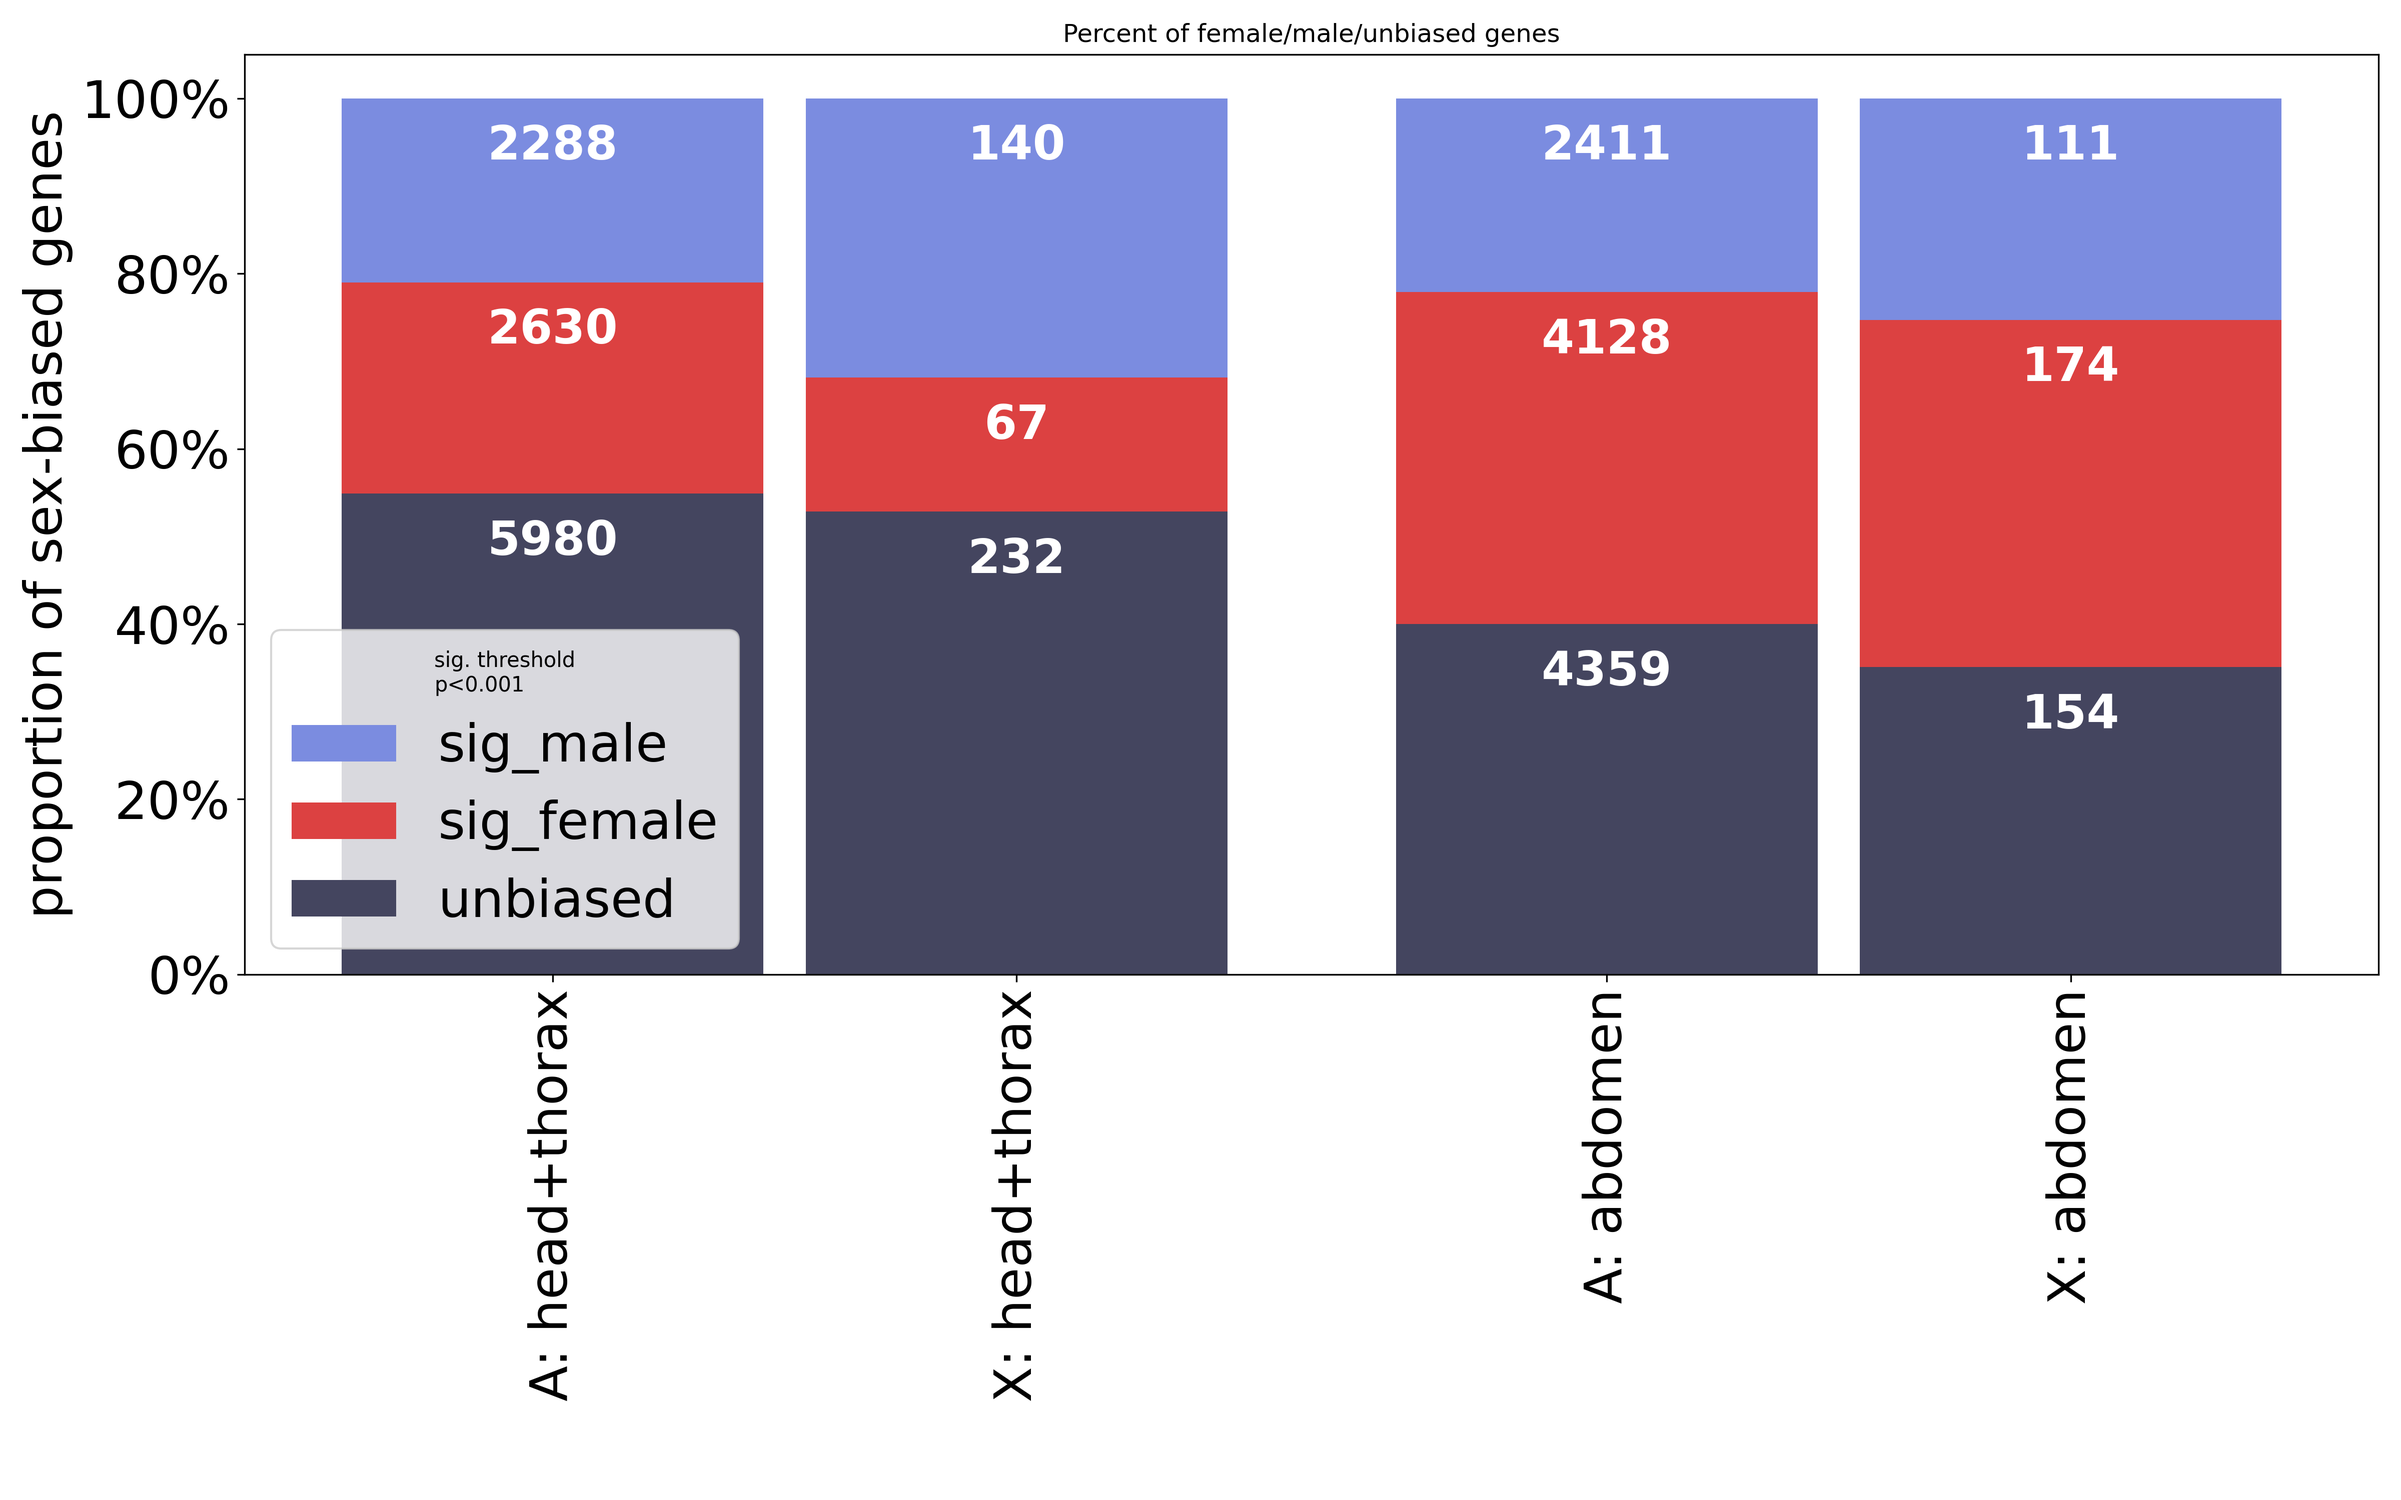
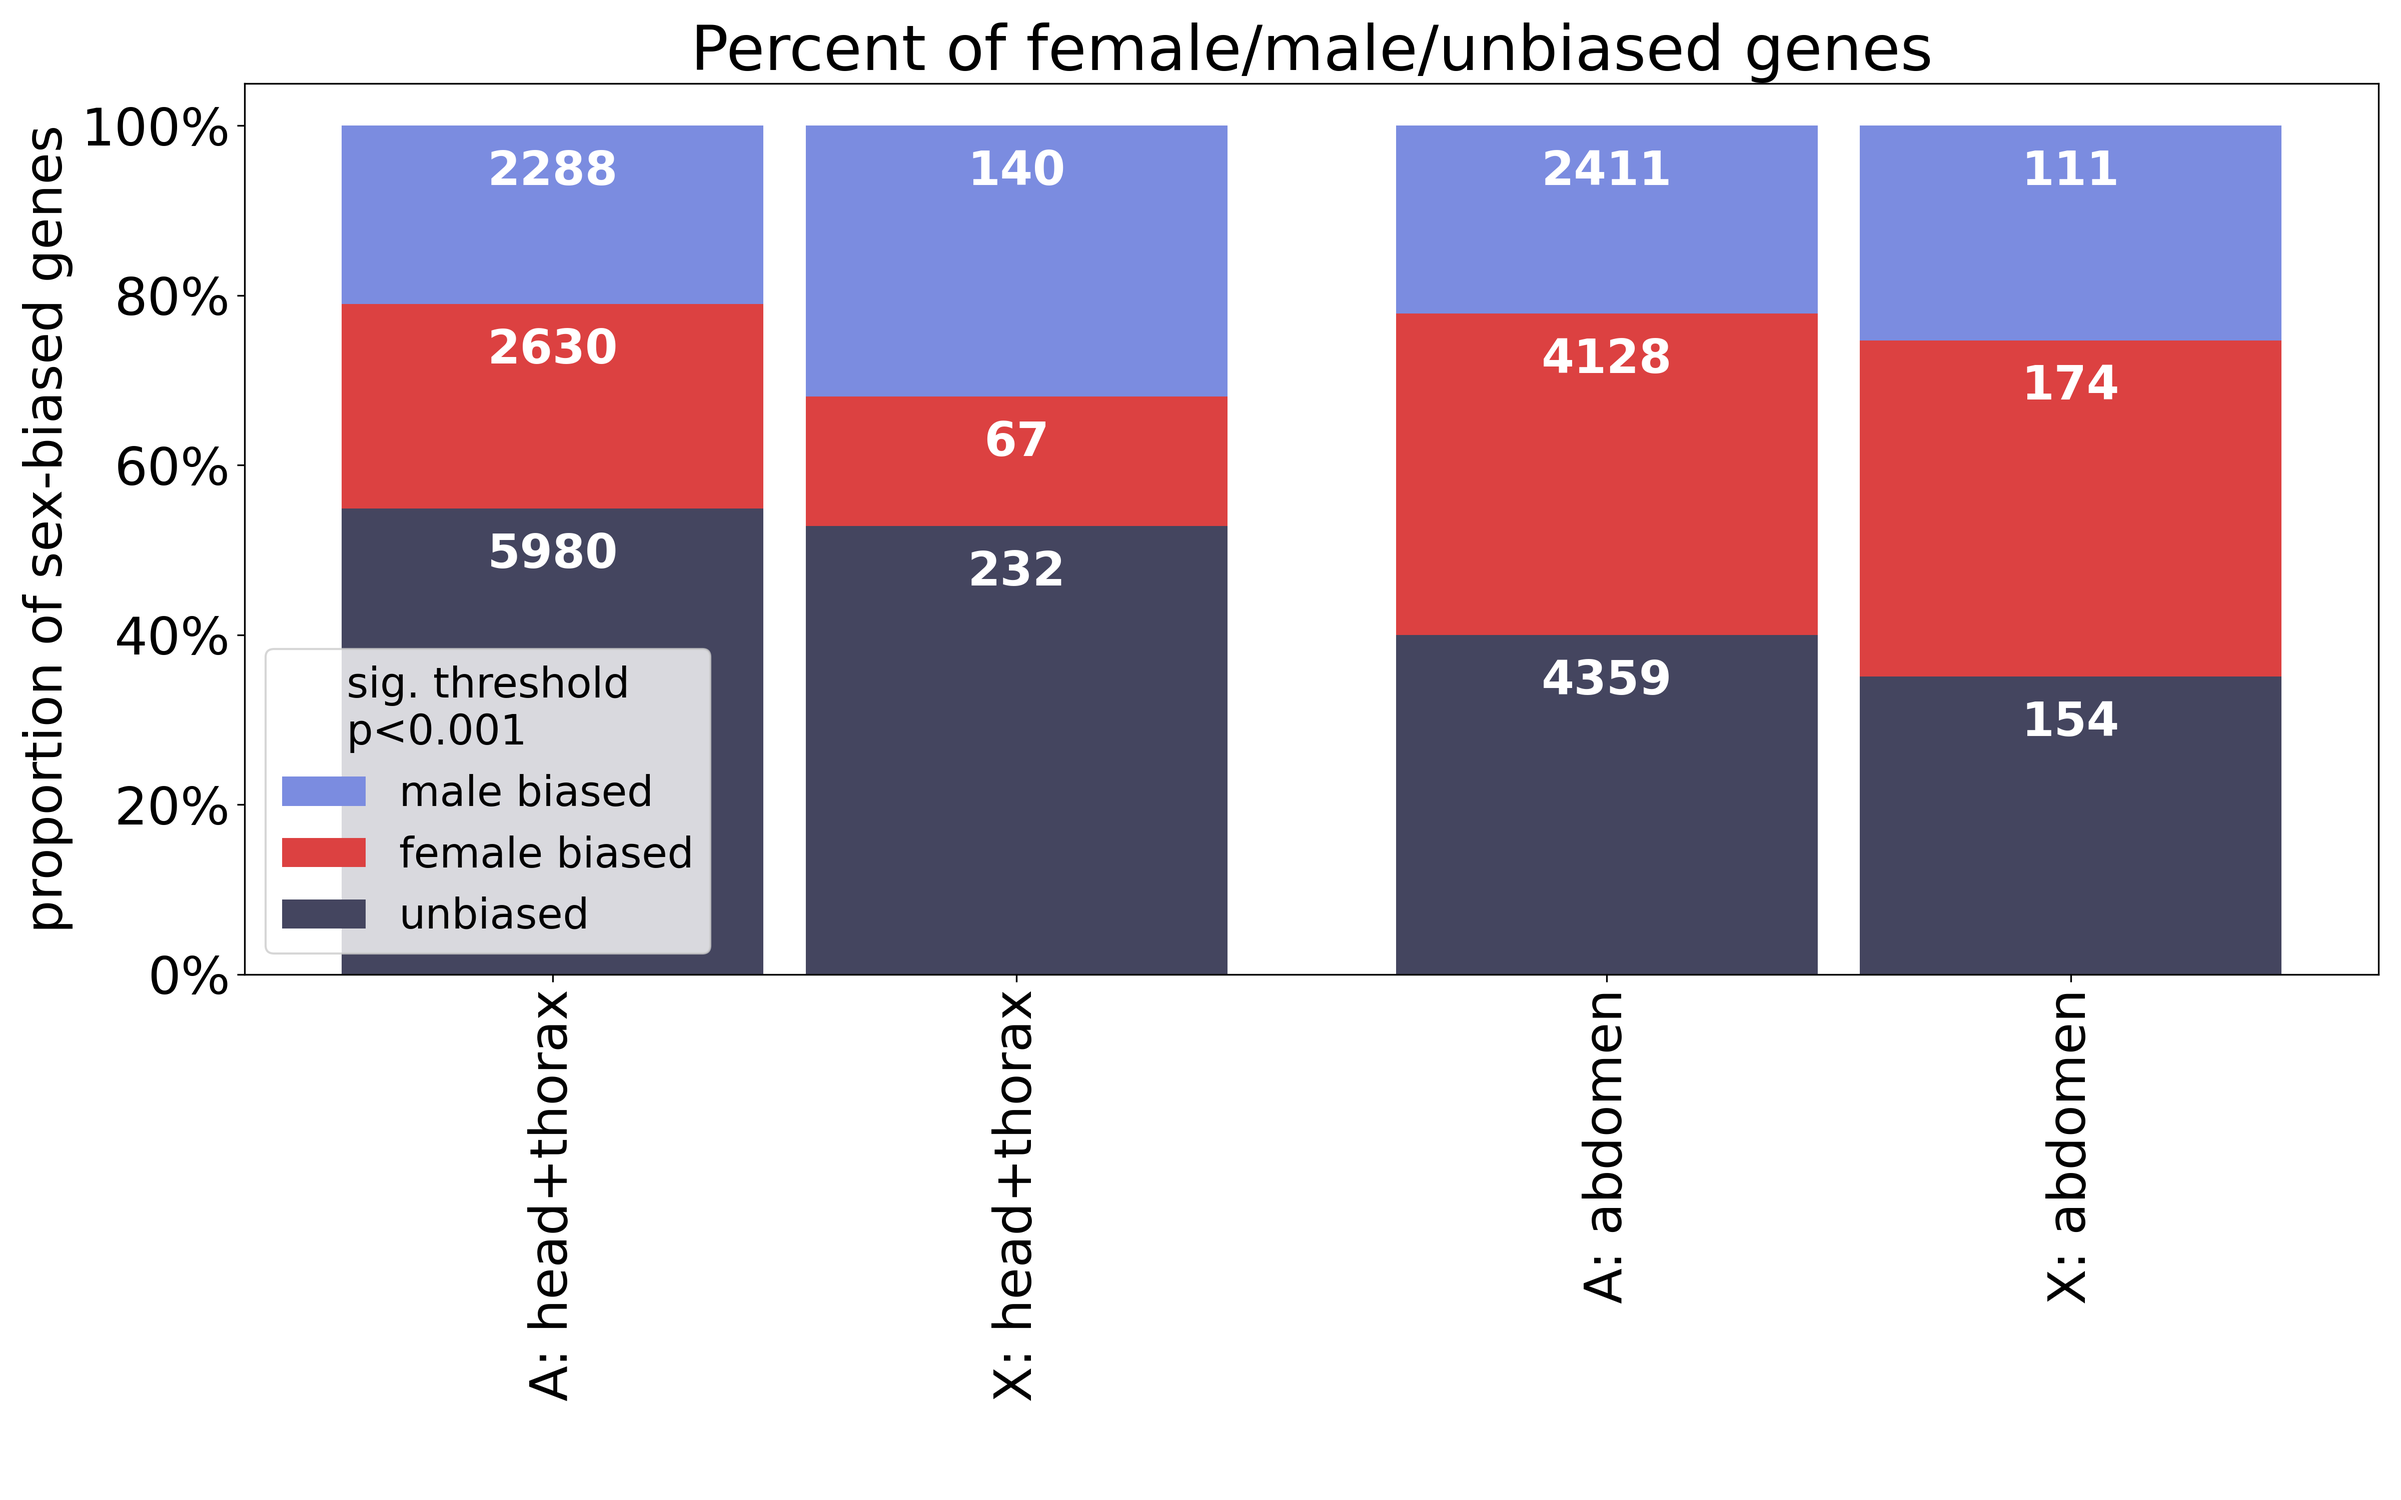
update plot

diff --git a/src/analyze_DE_stuff.py b/src/analyze_DE_stuff.py
@@ -309,6 +309,11 @@ def plot_sex_bias_bar_chart(summary_paths, annotation, X_list, outfile = ""):
         "sig_male" : "#7B8CE0", # wisteria blue
         "unbiased" : "#44455F", # vintage grape
     }
+    labels_dict ={
+        "sig_female" : "female biased",
+        "sig_male" : "male biased", 
+        "unbiased" : "unbiased",
+    }
     bottom = [0,0,0,0]
     for DE_category in reversed(head_thorax_summary_A.keys()):
 
@@ -316,7 +321,7 @@ def plot_sex_bias_bar_chart(summary_paths, annotation, X_list, outfile = ""):
                     head_thorax_percentage_X[DE_category],
                     abdomen_percentage_A[DE_category],
                     abdomen_percentage_X[DE_category]]
-        ax.bar(x_coords, y_coords, width = width, bottom=bottom, label=DE_category, color= colors_dict[DE_category])
+        ax.bar(x_coords, y_coords, width = width, bottom=bottom, label=labels_dict[DE_category], color= colors_dict[DE_category])
         
         bottom = [bottom[i]+y_coords[i] for i in range(len(y_coords))]
 
@@ -352,7 +357,7 @@ def plot_sex_bias_bar_chart(summary_paths, annotation, X_list, outfile = ""):
     ax.tick_params(axis='y', labelsize=fs)
     ax.tick_params(axis='x', labelsize=fs) 
 
-    plt.legend(reverse=True, fontsize=fs, loc="lower left", title=f"sig. threshold\np<{sig_p_level}", title_fontsize=fs)
+    plt.legend(reverse=True, fontsize=fs*0.8, loc="lower left", title=f"sig. threshold\np<{sig_p_level}", title_fontsize=fs*0.8)
     plt.title(f"Percent of female/male/unbiased genes", fontsize=fs*1.2)
     plt.tight_layout(rect=[0, 0.05, 1, 1])
 
